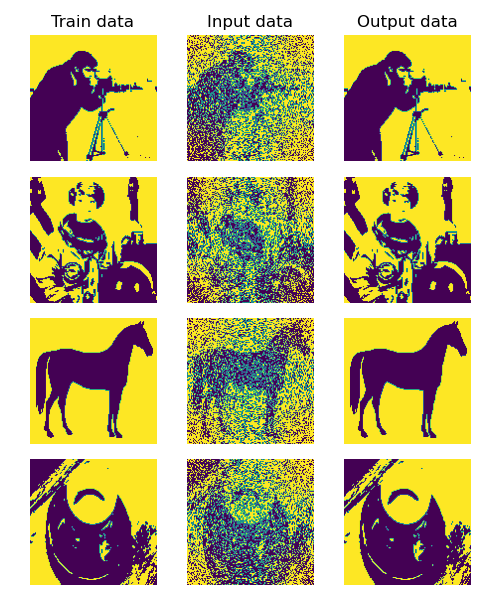
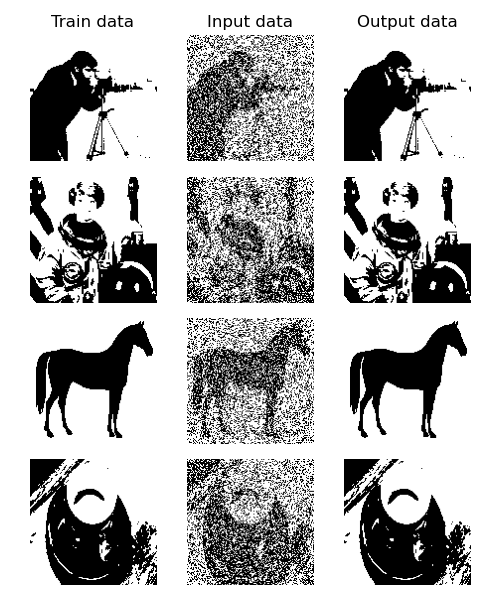
2023-8-25 20：02

diff --git a/mnist.py b/mnist.py
@@ -97,10 +97,10 @@ def plot(feature, predicted, tag1, tag2):
 def plot1(feature, predicted, tag1, tag2):
     feature = [reshape(data) for data in feature]
     predicted = [reshape(data) for data in predicted]
-    fig, axs = plt.subplots(2, 4, figsize=(12, 8))
+    fig, axs = plt.subplots(2, 3, figsize=(12, 8))
     fig.suptitle(tag1 + ' and ' + tag2 + ' Images', fontsize=16)
 
-    for i in range(4):
+    for i in range(3):
         # Plot feature images
         axs[0, i].imshow(feature[i], cmap='gray')
         axs[0, i].set_title(tag1 + f' {i}')
@@ -125,11 +125,11 @@ for images, labels in test_loader:
     label = labels[0].item()
     images_per_class[label].append(image)
 
-for i in range(4):
+for i in range(3):
     random_image = random.choice(images_per_class[i])
     test_sets.append(np.array(random_image).reshape(784))
 
-for i in range(4):
+for i in range(3):
     random_image = random.choice(images_per_class[i])
     test_sets1.append(np.array(random_image).reshape(784))
 
@@ -139,15 +139,17 @@ original_feature = [np.where(array == 0, -1, array) for array in original_sets]
 model = HopfieldNetwork()
 model.train_weights(original_feature)
 
-original_predicted = model.predict(original_feature, num_iter=1000, threshold=60, asyn=False)
+original_predicted = model.predict(original_feature, num_iter=1000, threshold=60, asyn=True)
 
 
-# noisy_sets = [salt_pepper_noise(data, 0.3) for data in test_sets1]
+# noisy_sets = [salt_pepper_noise(data, 0.3) for data in test_sets]
 noisy_sets = test_sets1
 noisy_feature = [np.where(array == 0, -1, array) for array in noisy_sets]
 noisy_sets = [binarize_array(data) for data in noisy_feature]
-noisy_predicted = model.predict(noisy_sets, num_iter=1000, threshold=60, asyn=False)
+noisy_predicted = model.predict(noisy_sets, num_iter=1000, threshold=60, asyn=True)
 # plot1(original_sets, original_feature, tag1='Original', tag2='Predicted')
-plot1(original_sets, original_predicted, tag1='Noisy', tag2='Predicted')
+plot1(original_sets, original_predicted, tag1='Noisy', tag2='Original Predicted')
 plot1(noisy_sets, noisy_predicted, tag1='Noisy', tag2='Predicted')
 # model.plot_weights()
+
+# 网络的最大记忆能力为4

diff --git a/train.py b/train.py
@@ -43,11 +43,11 @@ def plot(data, test, predicted, figsize=(5, 6)):
             axarr[i, 1].set_title("Input data")
             axarr[i, 2].set_title('Output data')
 
-        axarr[i, 0].imshow(data[i])
+        axarr[i, 0].imshow(data[i], cmap='gray')
         axarr[i, 0].axis('off')
-        axarr[i, 1].imshow(test[i])
+        axarr[i, 1].imshow(test[i], cmap='gray')
         axarr[i, 1].axis('off')
-        axarr[i, 2].imshow(predicted[i])
+        axarr[i, 2].imshow(predicted[i], cmap='gray')
         axarr[i, 2].axis('off')
 
     plt.tight_layout()

diff --git a/train_mnist.py b/train_mnist.py
@@ -89,7 +89,7 @@ def main():
     print("Show prediction results...")
     plot(data, test, predicted, figsize=(5, 5))
     print("Show network weights matrix...")
-    # model.plot_weights()
+    model.plot_weights()
     
 if __name__ == '__main__':
     main()
